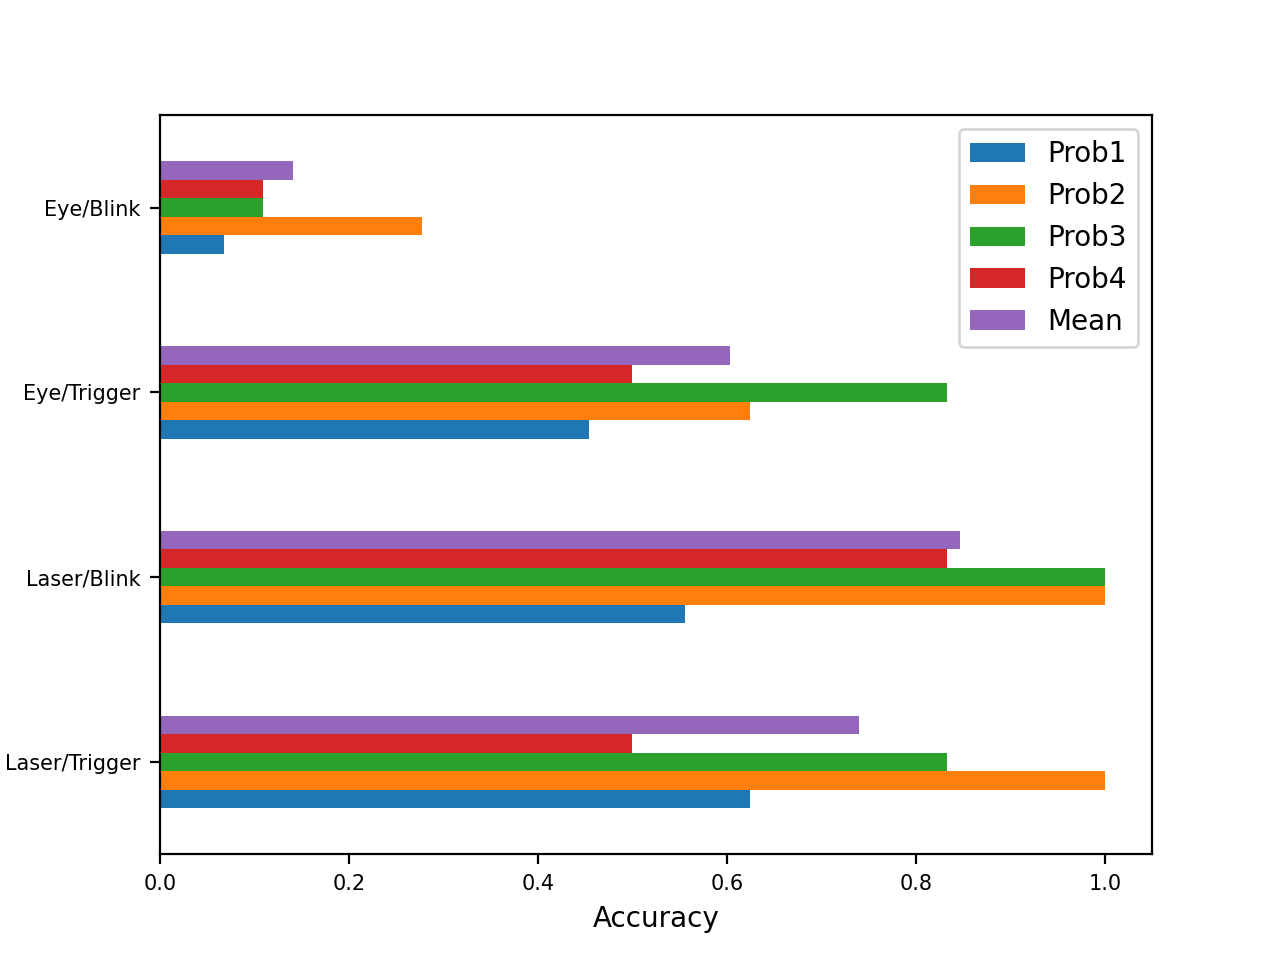
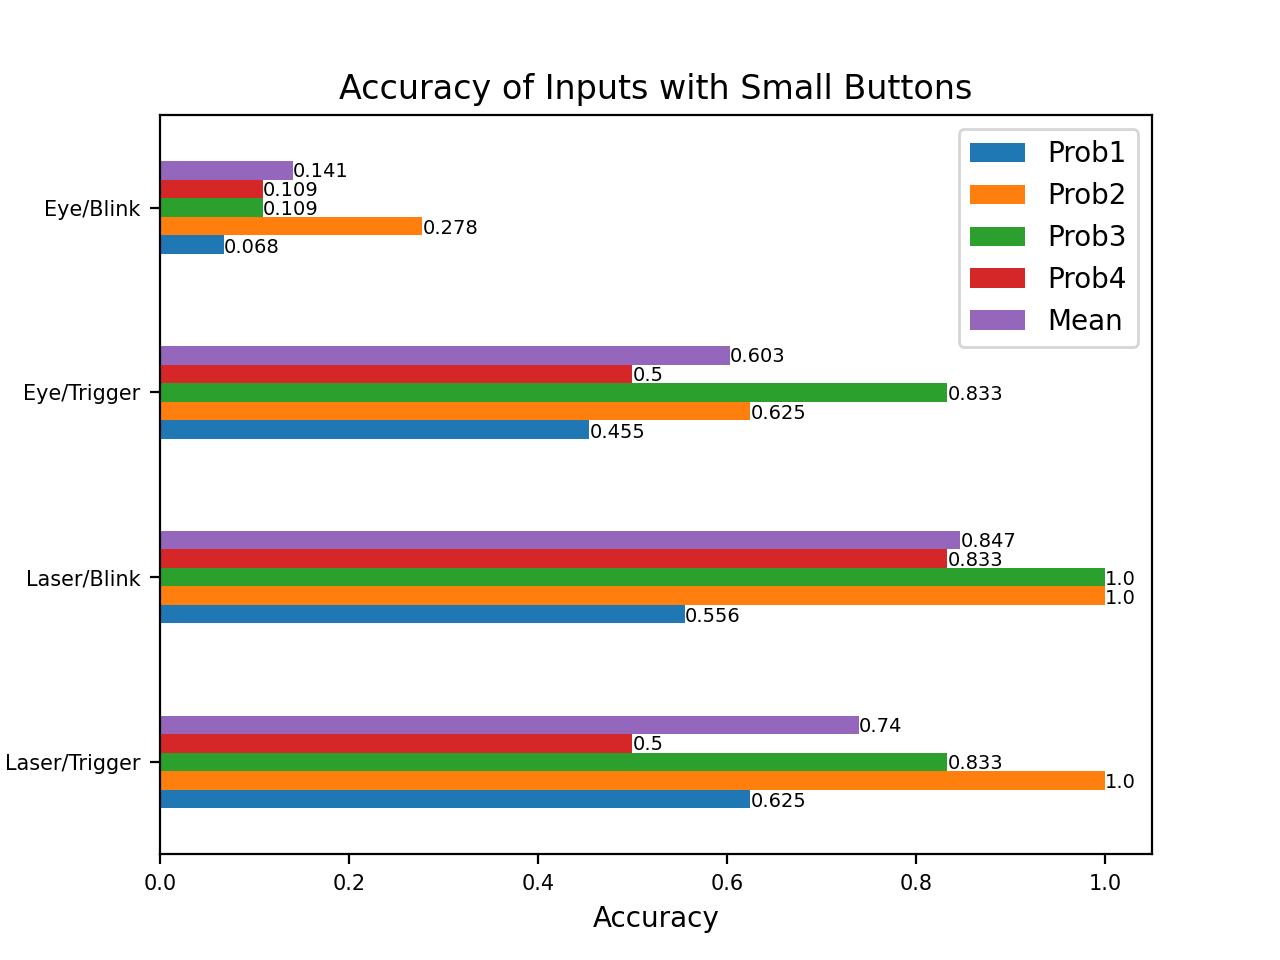
Pictures edited

diff --git a/demo_unity/DemoVR/Measurement/time_analysis.py b/demo_unity/DemoVR/Measurement/time_analysis.py
@@ -27,6 +27,11 @@ def get_mean_time_data(all_dicts):
 def create_bar_graph(data):
     new_data_big = [[], [], [], [], []]
     new_data_small = [[], [], [], [], []]
+    font = {'family': 'DejaVu Sans',
+            'color': 'black',
+            'weight': 'normal',
+            'size': 7,
+            }
     for i in range(4):
         new_data_big[0].append(data[0][i][0]/1000)
         new_data_big[1].append(data[0][i][1]/1000)
@@ -43,8 +48,22 @@ def create_bar_graph(data):
     df_big = pd.DataFrame({'Prob1': new_data_big[0], 'Prob2': new_data_big[1], 'Prob3': new_data_big[2], 'Prob4': new_data_big[3],
                             'Mean': new_data_big[4]}, index=data_labels)
     plot_big = df_big.plot.barh(fontsize=7.5)
+    offset_low = - 0.245
+    offset_high = 0.165
+    d = (offset_high - offset_low) / 4
+    for index, value in enumerate(new_data_big[0]):
+        plot_big.text(value, index + offset_low, str(round(value, 3)), fontdict=font)
+    for index, value in enumerate(new_data_big[1]):
+        plot_big.text(value, index + offset_low + d * 1, str(round(value, 3)), fontdict=font)
+    for index, value in enumerate(new_data_big[2]):
+        plot_big.text(value, index + offset_low + d * 2, str(round(value, 3)), fontdict=font)
+    for index, value in enumerate(new_data_big[3]):
+        plot_big.text(value, index + offset_low + d * 3, str(round(value, 3)), fontdict=font)
+    for index, value in enumerate(new_data_big[4]):
+        plot_big.text(value, index + offset_high, str(round(value, 3)), fontdict=font)
     plot_big.set_xlabel('Time')
     plot_big.set_ylabel('Control Method')
+    plot_big.set_title('Total Time Needed to Complete Test Run with Big Buttons')
     plot_big.figure.savefig("plot_big.png", format='png', dpi=200)
 
     df_small = pd.DataFrame(
@@ -54,13 +73,32 @@ def create_bar_graph(data):
          'Prob4': new_data_small[3],
          'Mean': new_data_small[4]}, index=data_labels)
     plot_small = df_small.plot.barh(fontsize=7.5)
+    offset_low = - 0.245
+    offset_high = 0.165
+    d = (offset_high - offset_low) / 4
+    for index, value in enumerate(new_data_small[0]):
+        plot_small.text(value, index + offset_low, str(round(value, 3)), fontdict=font)
+    for index, value in enumerate(new_data_small[1]):
+        plot_small.text(value, index + offset_low + d * 1, str(round(value, 3)), fontdict=font)
+    for index, value in enumerate(new_data_small[2]):
+        plot_small.text(value, index + offset_low + d * 2, str(round(value, 3)), fontdict=font)
+    for index, value in enumerate(new_data_small[3]):
+        plot_small.text(value, index + offset_low + d * 3, str(round(value, 3)), fontdict=font)
+    for index, value in enumerate(new_data_small[4]):
+        plot_small.text(value, index + offset_high, str(round(value, 3)), fontdict=font)
     plot_small.set_xlabel('Time')
     plot_small.set_ylabel('Control Method')
+    plot_small.set_title('Total Time Needed to Complete Test Run with Small Buttons')
     plot_small.figure.savefig("plot_small.png", format='png', dpi=200)
 
 
 def create_bar_graph_increase_time(data):
     new_data_increase = [[], [], [], [], []]
+    font = {'family': 'DejaVu Sans',
+            'color': 'black',
+            'weight': 'normal',
+            'size': 7,
+            }
     for i in range(4):
         new_data_increase[0].append(data[2][i][0] / data[0][i][0])
         new_data_increase[1].append(data[2][i][1] / data[0][i][0])
@@ -77,6 +115,19 @@ def create_bar_graph_increase_time(data):
          'Prob4': new_data_increase[3],
          'Mean': new_data_increase[4]}, index=data_labels)
     plot_big = df_big.plot.barh(fontsize=7.5)
+    offset_low = - 0.245
+    offset_high = 0.165
+    d = (offset_high - offset_low) / 4
+    for index, value in enumerate(new_data_increase[0]):
+        plot_big.text(value, index + offset_low, str(round(value, 3)), fontdict=font)
+    for index, value in enumerate(new_data_increase[1]):
+        plot_big.text(value, index + offset_low + d * 1, str(round(value, 3)), fontdict=font)
+    for index, value in enumerate(new_data_increase[2]):
+        plot_big.text(value, index + offset_low + d * 2, str(round(value, 3)), fontdict=font)
+    for index, value in enumerate(new_data_increase[3]):
+        plot_big.text(value, index + offset_low + d * 3, str(round(value, 3)), fontdict=font)
+    for index, value in enumerate(new_data_increase[4]):
+        plot_big.text(value, index + offset_high, str(round(value, 3)), fontdict=font)
     plot_big.set_title('Relative Change in Time with Buttons with Half the Diameter')
     plot_big.set_xlabel('Time Increase')
     plot_big.set_ylabel('Control Method')

diff --git a/demo_unity/DemoVR/Measurement/accuracy_analysis.py b/demo_unity/DemoVR/Measurement/accuracy_analysis.py
@@ -42,6 +42,11 @@ def get_single_acc(action):
 def create_bar_graph_accuracy(data):
     new_data_big = [[], [], [], [], []]
     new_data_small = [[], [], [], [], []]
+    font = {'family': 'DejaVu Sans',
+            'color': 'black',
+            'weight': 'normal',
+            'size': 7,
+            }
     for i in range(4):
         new_data_big[0].append(data[0][i][0])
         new_data_big[1].append(data[0][i][1])
@@ -59,8 +64,22 @@ def create_bar_graph_accuracy(data):
         {'Prob1': new_data_big[0], 'Prob2': new_data_big[1], 'Prob3': new_data_big[2], 'Prob4': new_data_big[3],
          'Mean': new_data_big[4]}, index=data_labels)
     plot_big = df_big.plot.barh(fontsize=7.5)
+    offset_low = - 0.245
+    offset_high = 0.165
+    d = (offset_high - offset_low) / 4
+    for index, value in enumerate(new_data_big[0]):
+        plot_big.text(value, index + offset_low, str(round(value, 3)), fontdict=font)
+    for index, value in enumerate(new_data_big[1]):
+        plot_big.text(value, index + offset_low + d * 1, str(round(value, 3)), fontdict=font)
+    for index, value in enumerate(new_data_big[2]):
+        plot_big.text(value, index + offset_low + d * 2, str(round(value, 3)), fontdict=font)
+    for index, value in enumerate(new_data_big[3]):
+        plot_big.text(value, index + offset_low + d * 3, str(round(value, 3)), fontdict=font)
+    for index, value in enumerate(new_data_big[4]):
+        plot_big.text(value, index + offset_high, str(round(value, 3)), fontdict=font)
     plot_big.set_xlabel('Accuracy')
     plot_big.set_ylabel('Control Method')
+    plot_big.set_title('Accuracy of Inputs with Big Buttons')
     plot_big.figure.savefig("plot_acc_big.png", format='png', dpi=200)
 
     df_small = pd.DataFrame(
@@ -70,6 +89,20 @@ def create_bar_graph_accuracy(data):
          'Prob4': new_data_small[3],
          'Mean': new_data_small[4]}, index=data_labels)
     plot_small = df_small.plot.barh(fontsize=7.5)
+    offset_low = - 0.245
+    offset_high = 0.165
+    d = (offset_high - offset_low) / 4
+    for index, value in enumerate(new_data_small[0]):
+        plot_small.text(value, index + offset_low, str(round(value, 3)), fontdict=font)
+    for index, value in enumerate(new_data_small[1]):
+        plot_small.text(value, index + offset_low + d * 1, str(round(value, 3)), fontdict=font)
+    for index, value in enumerate(new_data_small[2]):
+        plot_small.text(value, index + offset_low + d * 2, str(round(value, 3)), fontdict=font)
+    for index, value in enumerate(new_data_small[3]):
+        plot_small.text(value, index + offset_low + d * 3, str(round(value, 3)), fontdict=font)
+    for index, value in enumerate(new_data_small[4]):
+        plot_small.text(value, index + offset_high, str(round(value, 3)), fontdict=font)
     plot_small.set_xlabel('Accuracy')
     plot_small.set_ylabel('Control Method')
+    plot_small.set_title('Accuracy of Inputs with Small Buttons')
     plot_small.figure.savefig("plot_acc_small.png", format='png', dpi=200)

diff --git a/demo_unity/DemoVR/Measurement/analyzer.py b/demo_unity/DemoVR/Measurement/analyzer.py
@@ -16,10 +16,10 @@ all_dicts = [andre_dicts, clemens_dicts, joern_dicts, juli_dicts]
 x = get_mean_time_data(all_dicts)
 y = get_accuracy(all_dicts)
 z = get_acts_per_sec(all_dicts, (x[1], x[3]))
-# create_bar_graph(x)
-# create_bar_graph_accuracy(y)
-# create_bar_graph_increase_time(x)
-calc_time_between(all_dicts)
+create_bar_graph(x)
+create_bar_graph_accuracy(y)
+create_bar_graph_increase_time(x)
+# calc_time_between(all_dicts)
 # create_heatmaps(all_dicts)
 print(x[0])
 print(x[1])
